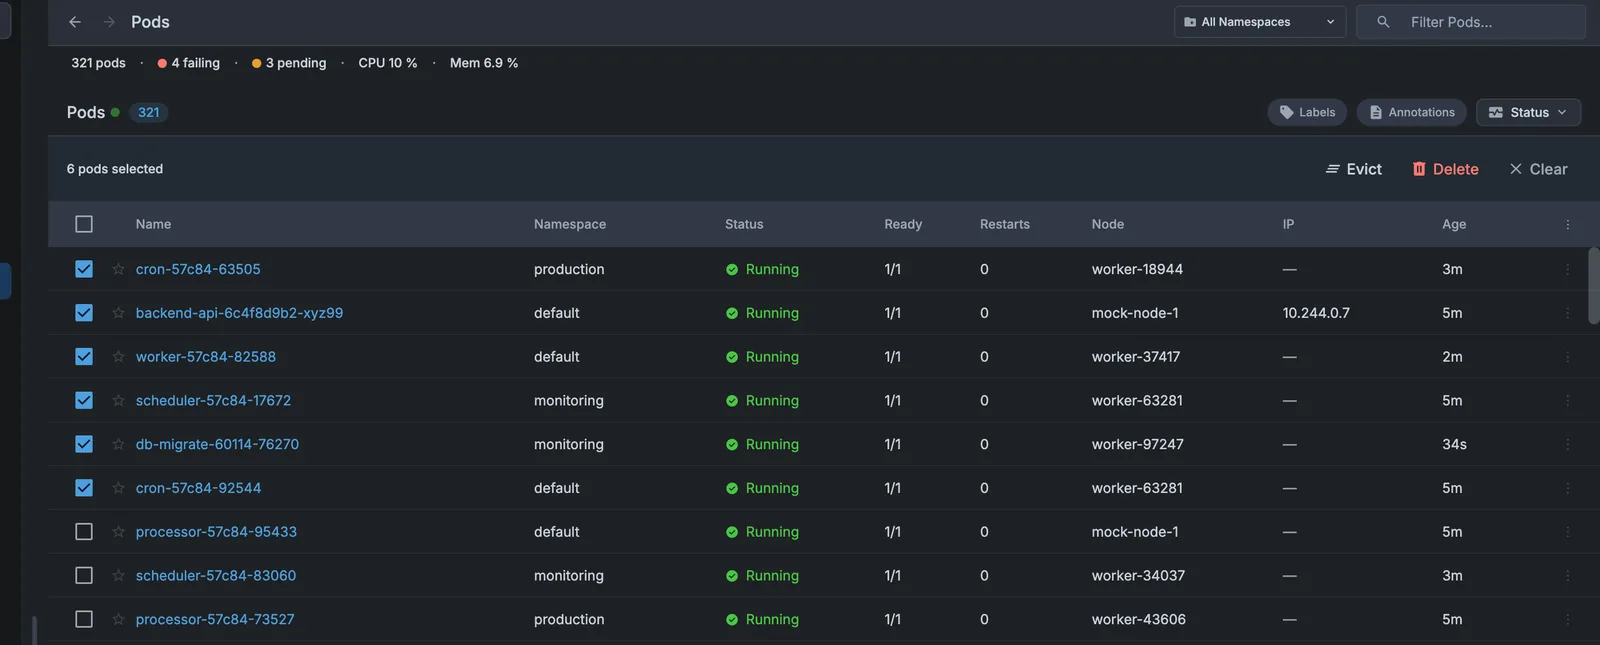
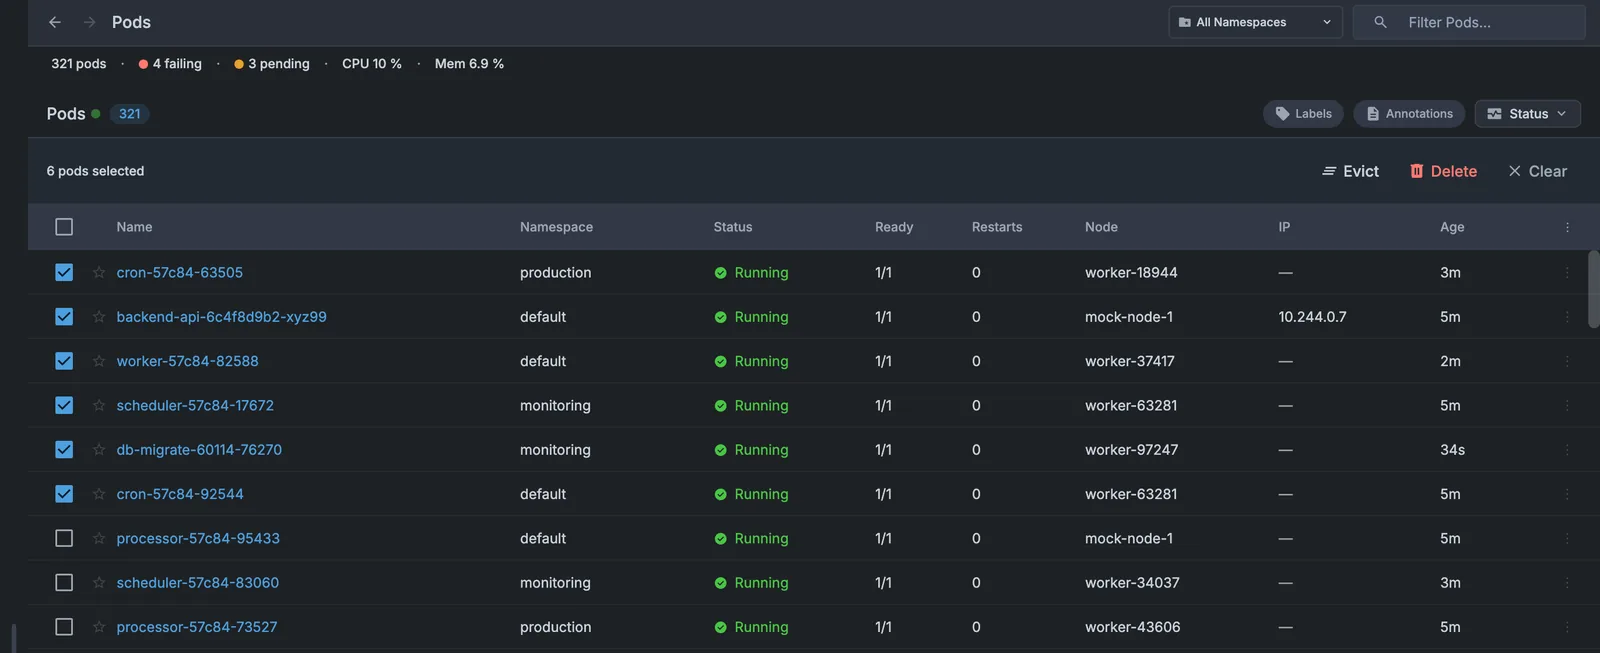
docs(site): show what each tile's caption promises
- Half-width tile shots may be up to 520 px tall (was 420), so the
  port-forward dialog, the palette and the Secret fit whole.
- The pod tile shows the bottom of its capture, the container card that
  says why the pod fails, and the capture ends at that card.
- The bulk crop no longer catches a sliver of the sidebar.
- The Retro loop opens on the Default look, so it shows the switch itself.

diff --git a/docs/index.html b/docs/index.html
@@ -249,7 +249,7 @@
                             src="img/pod-why.webp"
                             alt="Pod detail panel with a warnings callout and a container in CrashLoopBackOff"
                             width="1148"
-                            height="2020"
+                            height="1800"
                             loading="lazy"
                             decoding="async"
                             data-zoom
@@ -281,7 +281,7 @@
                             src="img/bulk.webp"
                             alt="Pods list with six rows selected and the bulk action bar"
                             width="1600"
-                            height="645"
+                            height="653"
                             loading="lazy"
                             decoding="async"
                             data-zoom

diff --git a/docs/style.css b/docs/style.css
@@ -551,7 +551,7 @@ img[data-zoom] {
 .bento-grid {
     /* Cap on a half-width tile's screenshot height. A taller shot is cropped at the bottom of the
        tile (click it for the full image) so side-by-side tiles end up about the same height. */
-    --tile-img-max: 420px;
+    --tile-img-max: 520px;
     display: grid;
     grid-template-columns: minmax(0, 1fr);
     gap: 20px;
@@ -601,6 +601,11 @@ img[data-zoom] {
     border-right: 0;
     border-bottom: 0;
     border-top-left-radius: 10px;
+}
+
+/* The pod's "why" (its container card) sits at the bottom of the capture; show that end. */
+.tile img[src$="pod-why.webp"] {
+    object-position: left bottom;
 }
 
 /* ---------------------------------------------------------- retro band

diff --git a/scripts/site_images.py b/scripts/site_images.py
@@ -51,8 +51,8 @@ HERO_SLUGS = [
 # window. Multiplied by (image width / 1640) before cropping, so it works at 1x and 2x.
 CROPS: dict[str, tuple[int, int, int, int] | None] = {
     "fleet": None,
-    "pod-why": (1066, 30, 1640, 1040),
-    "bulk": (250, 40, 1640, 600),
+    "pod-why": (1066, 30, 1640, 930),
+    "bulk": (268, 40, 1640, 600),
     "tail": (0, 820, 1100, 1160),
     "port-forward": (523, 308, 1117, 853),
     "palette": (516, 80, 1126, 590),
@@ -65,6 +65,7 @@ FEATURE_MAX_WIDTH = 1600
 WEBP_QUALITY = 82
 CRT_WIDTH = 1200
 CRT_QUALITY = 72
+CRT_BEFORE_HOLD_MS = 1200  # the Default look before the switch
 CRT_FIRST_HOLD_MS = 600
 CRT_LAST_HOLD_MS = 2800
 CRT_MIN_FRAME_GAP_MS = 33  # drop frames closer than this (real ms) to the previously kept one
@@ -183,6 +184,10 @@ def build_crt(src: Path, img_dir: Path, written: list[Path]) -> None:
     durations.append(CRT_LAST_HOLD_MS)
     # "Prepend the first frame held 600 ms" == the first frame's own duration plus the hold.
     durations[0] += CRT_FIRST_HOLD_MS
+    # Open on the Default look the switch starts from, so the loop shows the switch itself.
+    if first is not None:
+        frames.insert(0, (0.0, fit_width(first, CRT_WIDTH)))
+        durations.insert(0, CRT_BEFORE_HOLD_MS)
 
     out = img_dir / "retro-crt.webp"
     out.parent.mkdir(parents=True, exist_ok=True)
